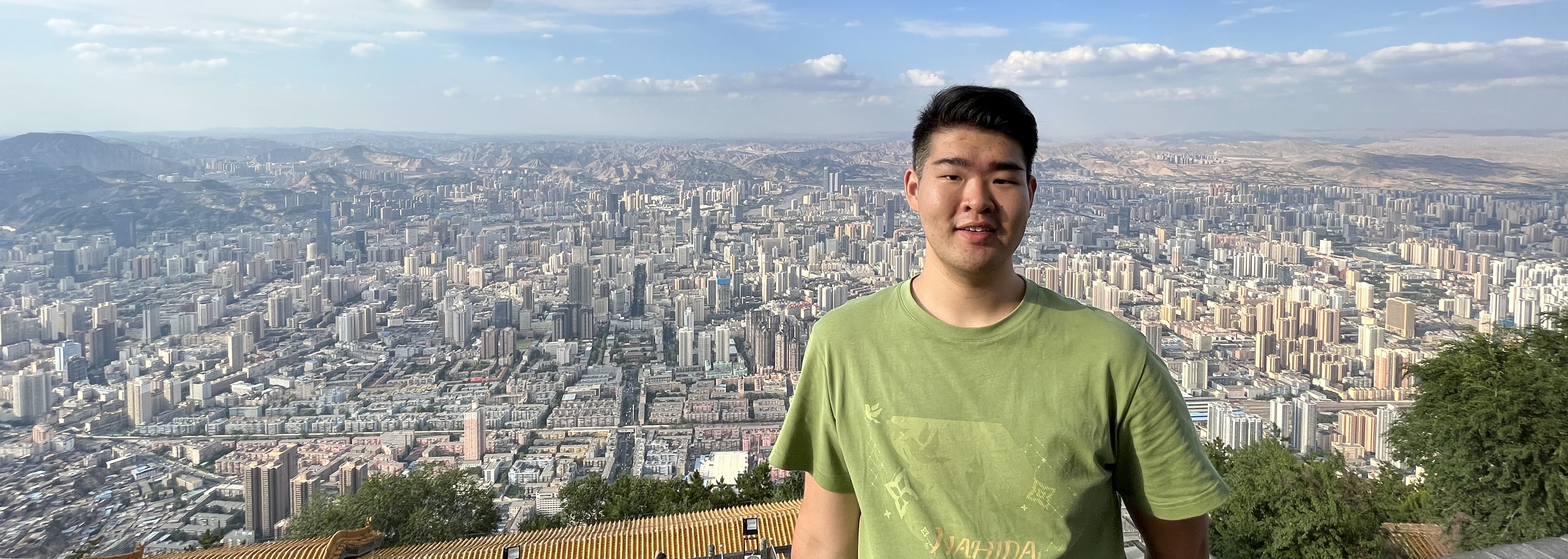
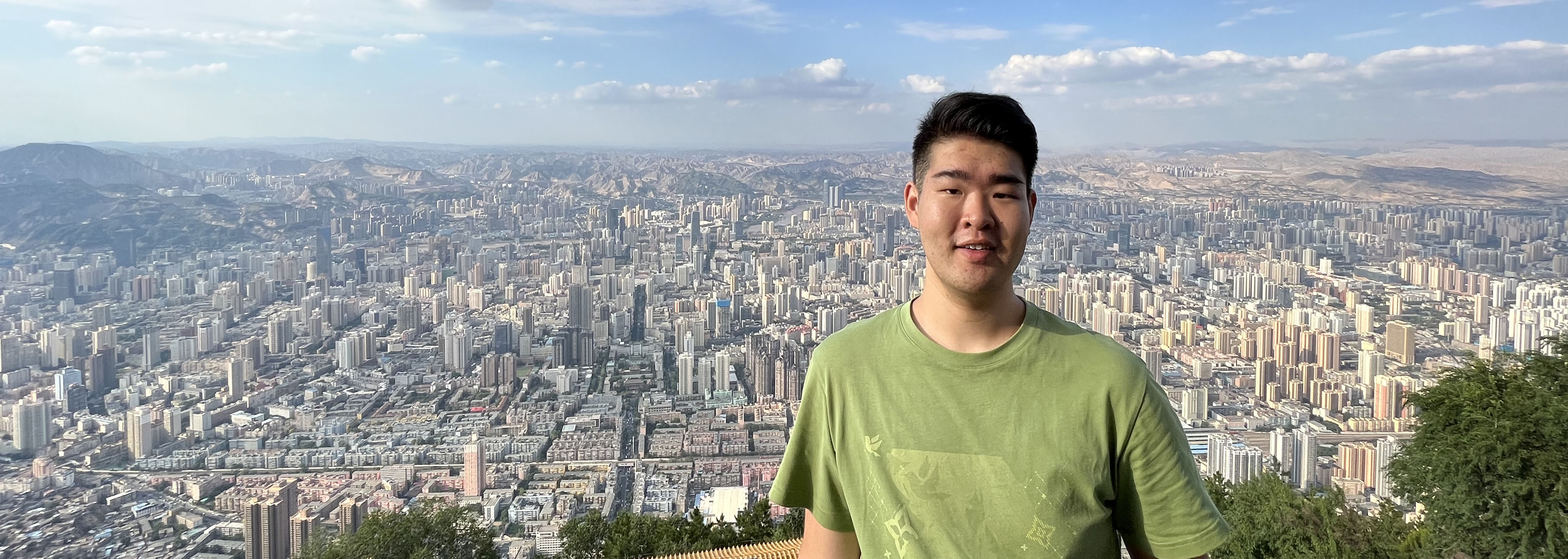
jpg

diff --git a/index.html b/index.html
@@ -90,7 +90,7 @@
 <div id="ei-slider" class="ei-slider"> <!-- see $('#ei-slider').eislideshow > slideshow_interval: 3000 in elasticslideshow.js -->
 	<ul class="ei-slider-large">
 		<li>
-			<img src="images/normal.png" alt="image01" class="responsiveslide">
+			<img src="images/normal.jpg" alt="image01" class="responsiveslide">
 		</li>
 		<li>
 			<img src="images/lanzhou.jpg" alt="image02" class="responsiveslide">
